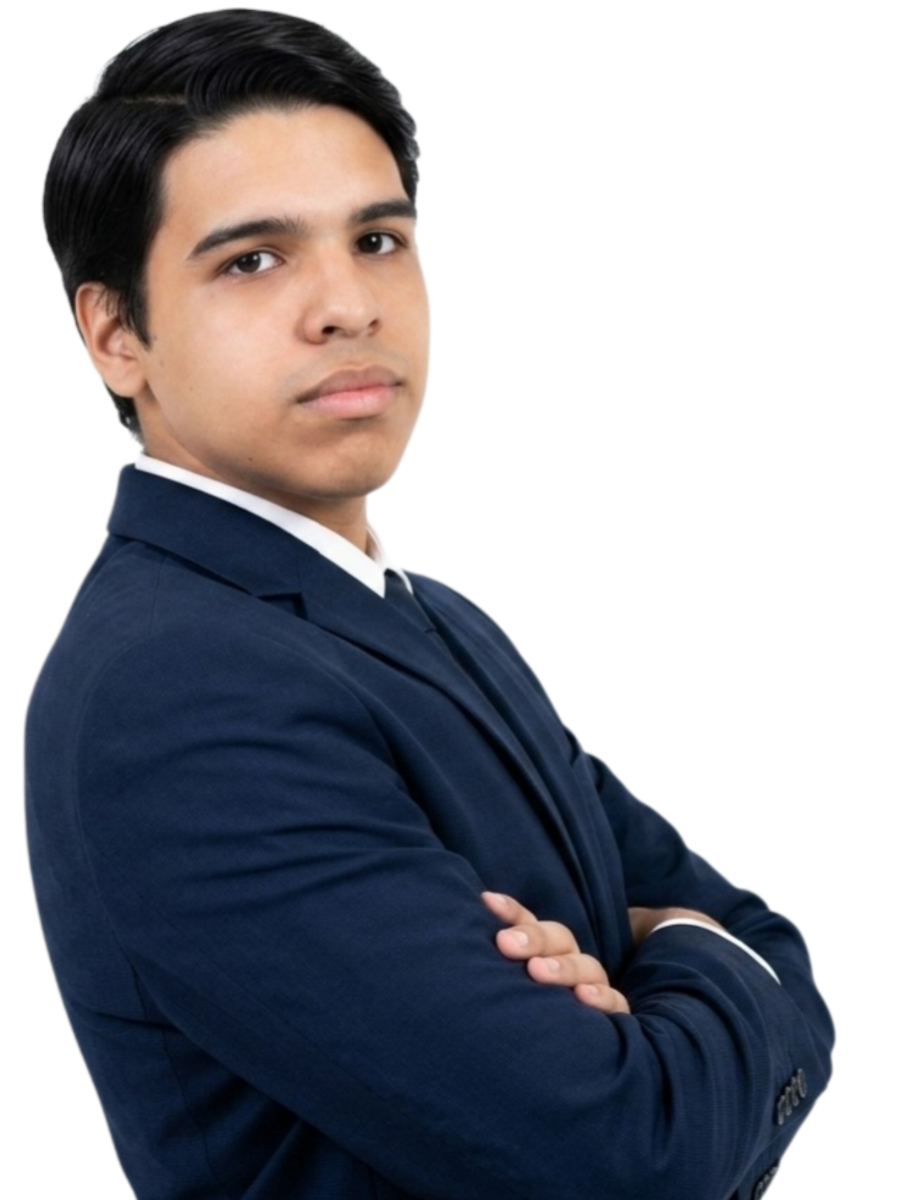
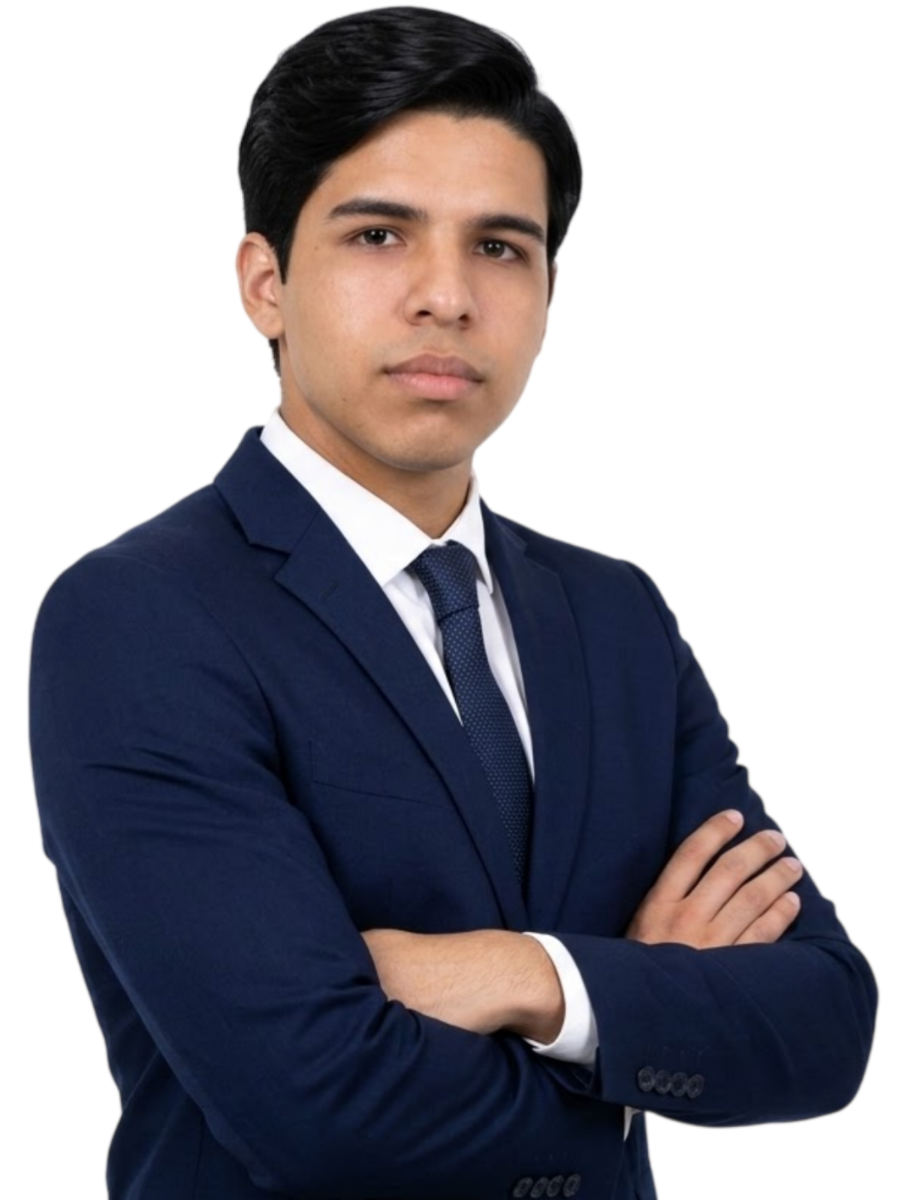
www.codexstudiove.com

diff --git a/src/components/layout/Footer.tsx b/src/components/layout/Footer.tsx
@@ -2,7 +2,6 @@
 import Image from "next/image";
 import { AnalogClock } from "@/components/ui/AnalogClock";
 import { useTranslation } from "@/lib/i18n/useTranslation";
-
 const socialLinks = [
   { name: "LinkedIn", icon: "bi-linkedin", url: "https://linkedin.com/in/sebastiancoronadev" },
   { name: "Reddit", icon: "bi-reddit", url: "https://reddit.com/user/sebastiancoronadev" },
@@ -38,22 +37,22 @@ export function Footer() {
             <ul className="space-y-3.5">
               <li>
                 <a href="tel:+584125008324" className="font-outfit text-[13px] font-light text-white/50 hover:text-pink-400 transition-colors flex items-center gap-2.5 justify-center md:justify-start">
-                  <i className="bi bi-telephone w-4" /> +58 412-5008324
+                  <i className="bi bi-telephone w-4" aria-hidden="true" /> +58 412-5008324
                 </a>
               </li>
               <li>
                 <a href="mailto:contacto@codexstudiove.com" className="font-outfit text-[13px] font-light text-white/50 hover:text-pink-400 transition-colors flex items-center gap-2.5 justify-center md:justify-start">
-                  <i className="bi bi-envelope w-4" /> contacto@codexstudiove.com
+                  <i className="bi bi-envelope w-4" aria-hidden="true" /> contacto@codexstudiove.com
                 </a>
               </li>
               <li>
                 <a href="mailto:sebastiancorona@codexstudiove.com" className="font-outfit text-[13px] font-light text-white/50 hover:text-pink-400 transition-colors flex items-center gap-2.5 justify-center md:justify-start">
-                  <i className="bi bi-envelope-at w-4" /> sebastiancorona@codexstudiove.com
+                  <i className="bi bi-envelope-at w-4" aria-hidden="true" /> sebastiancorona@codexstudiove.com
                 </a>
               </li>
               <li>
                 <a href="https://www.codexstudiove.com" target="_blank" rel="noopener noreferrer" className="font-outfit text-[13px] font-light text-white/50 hover:text-pink-400 transition-colors flex items-center gap-2.5 justify-center md:justify-start">
-                  <i className="bi bi-globe w-4" /> www.codexstudiove.com
+                  <i className="bi bi-globe w-4" aria-hidden="true" /> www.codexstudiove.com
                 </a>
               </li>
             </ul>

diff --git a/src/components/sections/Biography.tsx b/src/components/sections/Biography.tsx
@@ -4,6 +4,7 @@ import { motion, AnimatePresence } from "framer-motion";
 import Image from "next/image";
 import { SectionTitle } from "@/components/ui/SectionTitle";
 import { useTranslation } from "@/lib/i18n/useTranslation";
+import { SSRPrerender } from "@/components/seo/SSRPrerender";
 
 interface BioPerson {
   name: string;
@@ -139,7 +140,38 @@ export function Biography() {
             );
           })}
         </div>
-      </div>
+      </div>      {/* SEO - Contenido SSR invisible para Google */}
+      <SSRPrerender id="biografia-seo-content" ariaLabel="Biografías completas del equipo Codex Studio VE">
+        <h2>Biografías del Equipo Codex Studio VE</h2>
+        {BIO_PEOPLE.map((person) => {
+          const role = t(`bio.${person.key}.role`) as string;
+          const highlights = t(`bio.${person.key}.highlights`) as string[];
+          const biography = t(`bio.${person.key}.biography`) as string;
+
+          return (
+            <article key={`seo-${person.key}`} itemScope itemType="https://schema.org/Person">
+              <h3 itemProp="name">{person.name}</h3>
+              <p itemProp="jobTitle">{role}</p>
+              <p>
+                <span itemProp="address" itemScope itemType="https://schema.org/PostalAddress">
+                  <span itemProp="addressLocality">{person.location}</span>
+                </span>
+              </p>
+              <ul>
+                {Array.isArray(highlights) &&
+                  highlights.map((h, i) => (
+                    <li key={i}>{h}</li>
+                  ))}
+              </ul>
+              <div itemProp="description">
+                {biography.split("\n\n").map((para, i) => (
+                  <p key={i}>{para}</p>
+                ))}
+              </div>
+            </article>
+          );
+        })}
+      </SSRPrerender>
 
       <AnimatePresence>
         {openIndex !== null && (

diff --git a/src/components/sections/Portfolio.tsx b/src/components/sections/Portfolio.tsx
@@ -6,6 +6,7 @@ import { SectionTitle } from "@/components/ui/SectionTitle";
 import { GlowCard } from "@/components/ui/GlowCard";
 import { projects } from "@/lib/data/projects";
 import { useTranslation } from "@/lib/i18n/useTranslation";
+import { SSRPrerender } from "@/components/seo/SSRPrerender";
 
 export function Portfolio() {
   const { t } = useTranslation();
@@ -88,7 +89,36 @@ export function Portfolio() {
             </motion.div>
           ))}
         </div>
-      </div>
+      </div>      {/* SEO - Contenido SSR invisible para Google */}
+      <SSRPrerender id="portafolio-seo-content" ariaLabel="Proyectos completos de Codex Studio VE">
+        <h2>Proyectos Destacados de Codex Studio VE</h2>
+        {projects.map((project) => {
+          const short = t(project.descriptionKey) as string;
+          const long = t(project.longDescriptionKey) as string;
+
+          return (
+            <article key={`seo-${project.title}`} itemScope itemType="https://schema.org/CreativeWork">
+              <h3 itemProp="name">{project.title}</h3>
+              <p itemProp="abstract">{short}</p>
+              <div itemProp="description">
+                {long.split("\n\n").map((para, i) => (
+                  <p key={i}>{para}</p>
+                ))}
+              </div>
+              <ul>
+                {project.tech.map((tech, i) => (
+                  <li key={i}>{tech}</li>
+                ))}
+              </ul>
+              {project.url !== "#" && (
+                <a href={project.url} rel="noopener noreferrer">
+                  {project.url}
+                </a>
+              )}
+            </article>
+          );
+        })}
+      </SSRPrerender>
 
       <AnimatePresence>
         {openIndex !== null && (

diff --git a/src/components/seo/SSRPrerender.tsx b/src/components/seo/SSRPrerender.tsx
@@ -1,0 +1,42 @@
+"use client";
+import { useEffect, useState, type ReactNode } from "react";
+
+interface SSRPrerenderProps {
+  id: string;
+  ariaLabel: string;
+  children: ReactNode;
+}
+
+export function SSRPrerender({ id, ariaLabel, children }: SSRPrerenderProps) {
+  const [mounted, setMounted] = useState(false);
+
+  useEffect(() => {
+    setMounted(true);
+  }, []);
+
+  return (
+    <section
+      id={id}
+      aria-label={ariaLabel}
+      data-seo="true"
+      className="sr-only"
+      style={
+        mounted
+          ? {
+              position: "absolute",
+              width: "1px",
+              height: "1px",
+              padding: 0,
+              margin: "-1px",
+              overflow: "hidden",
+              clip: "rect(0, 0, 0, 0)",
+              whiteSpace: "nowrap",
+              borderWidth: 0,
+            }
+          : undefined
+      }
+    >
+      {children}
+    </section>
+  );
+}
